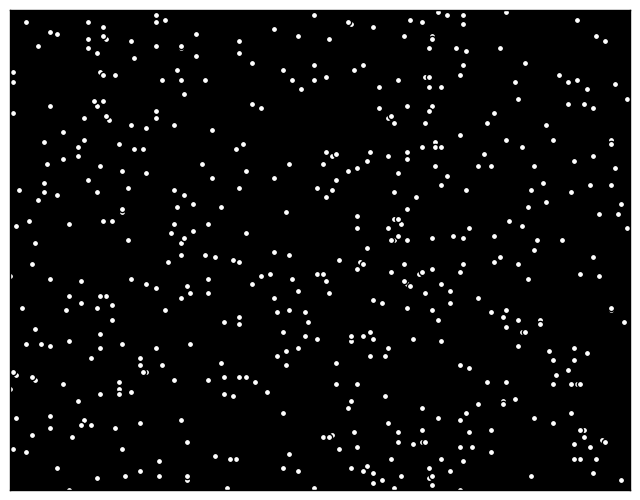
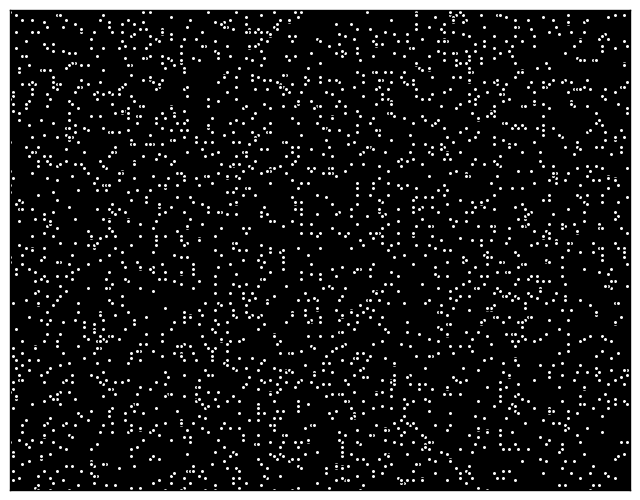
added a way to create markers of controlled size

diff --git a/create_circles.py b/create_circles.py
@@ -1,5 +1,3 @@
-# This program creates a BOS pattern consisting of black or white dots
-
 import numpy as np
 import matplotlib.pyplot as plt
 from matplotlib.patches import Circle
@@ -7,29 +5,29 @@ from matplotlib.collections import PatchCollection
 
 def circles(x, y, s, c='b', vmin=None, vmax=None, **kwargs):
     """
-    Make a scatter of circles plot of x vs y, where x and y are sequence
+    Make a scatter of circles plot of x vs y, where x and y are sequence 
     like objects of the same lengths. The size of circles are in data scale.
 
     Parameters
     ----------
     x,y : scalar or array_like, shape (n, )
         Input data
-    s : scalar or array_like, shape (n, )
+    s : scalar or array_like, shape (n, ) 
         Radius of circle in data unit.
     c : color or sequence of color, optional, default : 'b'
         `c` can be a single color format string, or a sequence of color
         specifications of length `N`, or a sequence of `N` numbers to be
         mapped to colors using the `cmap` and `norm` specified via kwargs.
-        Note that `c` should not be a single numeric RGB or RGBA sequence
+        Note that `c` should not be a single numeric RGB or RGBA sequence 
         because that is indistinguishable from an array of values
-        to be colormapped. (If you insist, use `color` instead.)
-        `c` can be a 2-D array in which the rows are RGB or RGBA, however.
+        to be colormapped. (If you insist, use `color` instead.)  
+        `c` can be a 2-D array in which the rows are RGB or RGBA, however. 
     vmin, vmax : scalar, optional, default: None
         `vmin` and `vmax` are used in conjunction with `norm` to normalize
         luminance data.  If either are `None`, the min and max of the
         color array is used.
     kwargs : `~matplotlib.collections.Collection` properties
-        Eg. alpha, edgecolor(ec), facecolor(fc), linewidth(lw), linestyle(ls),
+        Eg. alpha, edgecolor(ec), facecolor(fc), linewidth(lw), linestyle(ls), 
         norm, cmap, transform, etc.
 
     Returns
@@ -70,60 +68,17 @@ def circles(x, y, s, c='b', vmin=None, vmax=None, **kwargs):
         plt.sci(collection)
     return collection
 
+plt.figure(figsize=(6,4))
+ax = plt.subplot(aspect='equal')
 
-
-# these are the minimum and maximum X,Y co-ordinates (microns) in the object space for the points on the pattern
-X_min = -7.5e4
-X_max = 7.5e4
-Y_min = -7.5e4
-Y_max = 7.5e4
-
-# this is the Z co-ordinate of the pattern (in microns)
-Z = 0.0
-
-# this is the diameter of a dot in the bos pattern in microns
-dot_diameter = 3.0e2
-
-# this is the spacing for the grid over which the dots will be randomly distributed
-grid_spacing = 2.0 * dot_diameter
-
-# these are the number of grid points over X and Y
-num_grid_points = (X_max - X_min)/grid_spacing
-
-# this is the ratio of the number of dots to the number of grid points. this ratio should be less than 1
-density_dots = 0.9
-
-# this is the number of dots to be generated along each dimension
-num_dots = density_dots * num_grid_points
-
-# this displays the parameters of the texture to the user
-print "number of grid points:", num_grid_points
-print "number of dots:", num_dots
+num_grid_points = 100
+num_dots = 3
 
 # this randomly generates integers corresponding to the X and Y indices in the grid
 xy_loc_int = np.random.randint(0, high=num_grid_points, size=(num_dots,2))
 
-# this converts integer locations to positions in real space
-xy_loc_float = np.zeros(xy_loc_int.shape, dtype=np.float32)
-xy_loc_float[:,0] = X_min + xy_loc_int[:,0]*grid_spacing
-xy_loc_float[:,1] = X_min + xy_loc_int[:,1]*grid_spacing
+out = circles(xy_loc_int[:,0], xy_loc_int[:,1], np.ones((num_dots,1)), c= 'b', alpha=0.5, ec='none')
 
-# this creates a figure where the circles will be drawn
-fig = plt.figure(1, figsize=(8,8))
-fig.set_size_inches(8,8)
-ax = fig.add_subplot(111, axisbg='black')
-
-# this draws circles whose centers are the co-ordinates in xy_loc_float and the radius is the dot_diameter
-# out = circles(xy_loc_float[:,0], xy_loc_float[:,1], 2*dot_diameter*np.ones((num_dots,1)), c= 'w', alpha=0.5, ec='none')
-plt.scatter(xy_loc_float[:,0], xy_loc_float[:,1], s=9, c='w', edgecolors='none')
-ax.set_xlim([X_min, X_max])
-ax.set_ylim([Y_min, Y_max])
-# ax.set_autoscale_on(False)
-ax.set_xticks([])
-ax.set_yticks([])
-
-plt.axis('equal')
-# plt.show()
-
-fig.savefig('bos_scatter_test_circles.png', bbox_inches='tight', pad_inches=0)
-
+plt.xlim(0,100)
+plt.ylim(0,100)
+plt.show()
